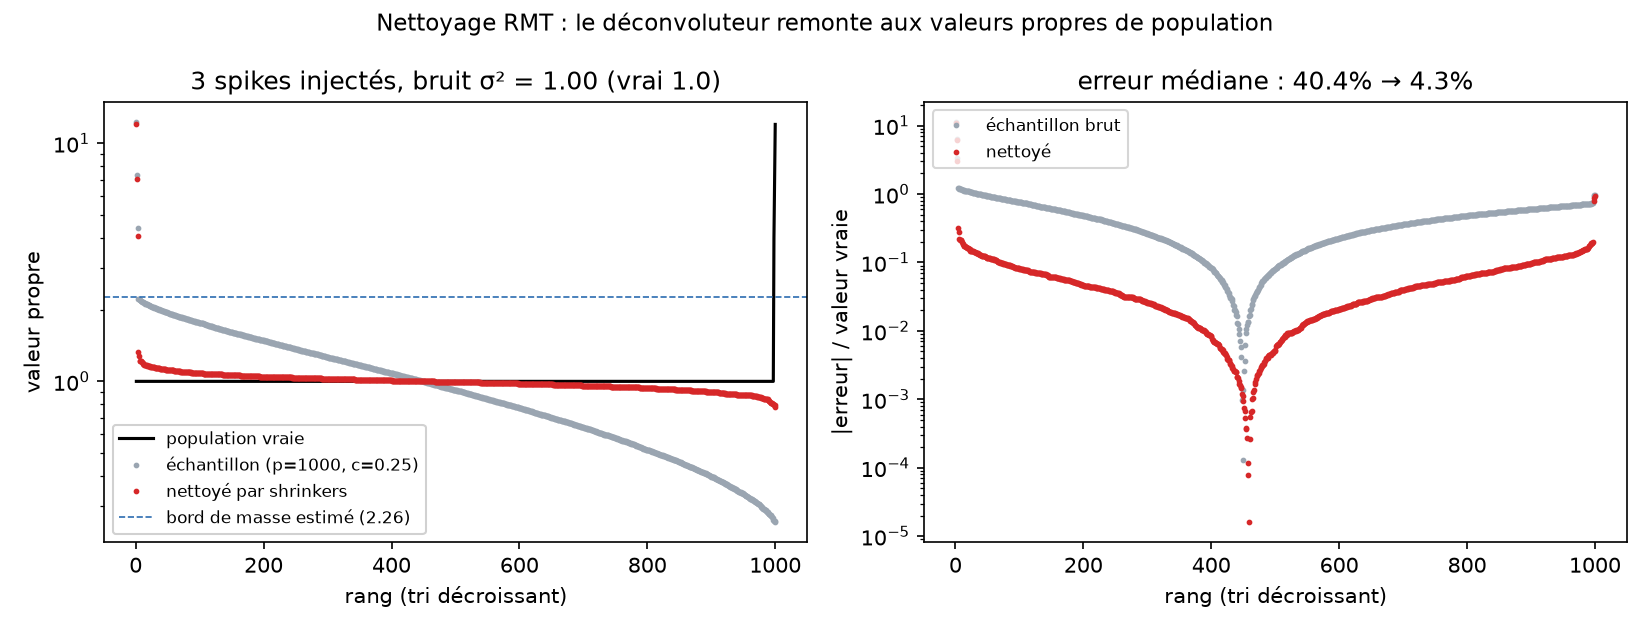
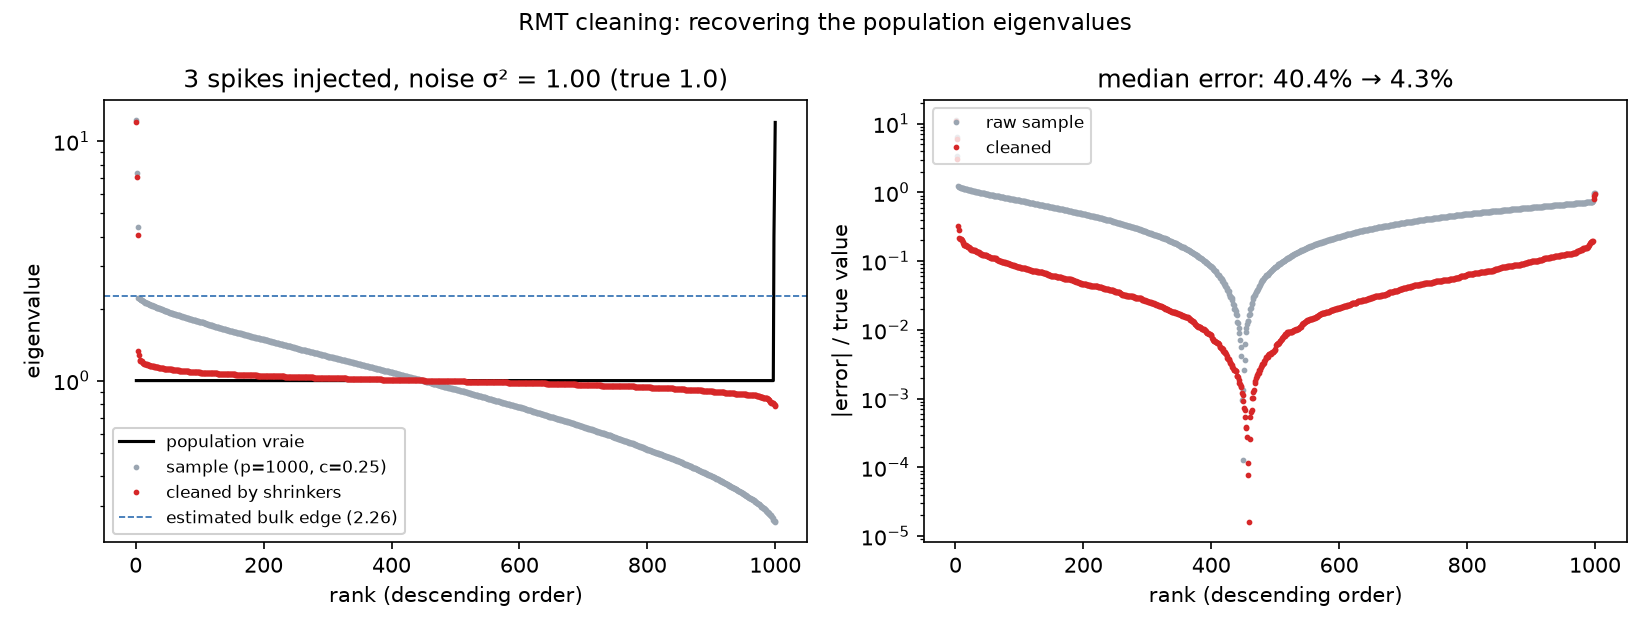
docs(readme): English figure labels, full 10^0-10^5 p-range, treecode in headline numbers
Review fixes on the front-page figures:

- every label, legend, title and annotation inside both figures is now
  English (they had shipped in French);
- the runtime sweep covers the WHOLE decade range for real — sizes
  measured from p=1 to p=50000 log-spaced (17 points, 9 timing reps at
  microsecond scales), axis pinned to [1, 1e5] — instead of stretching
  an axis beyond the data;
- the headline table gains a treecode column next to the exact one,
  with its own NumPy gain factor: people want to see what a small
  accuracy sacrifice buys. Fresh measurements: p=1024 -> exact
  0.23 ms (12x) / chebcode_fast 0.15 ms (19x); p=4096 -> 1.3 ms (67x) /
  0.42 ms (201x); p=50000 -> 0.16 s (96x) / 5.1 ms (~3000x). Footnotes
  state the accuracy of each column and that microsecond-scale
  flattening is fixed Python-call overhead, deferring the pure-kernel
  crossover to its dedicated section.

README cells resynced to the regenerated docs/img/readme_figures.json.

diff --git a/scripts/make_readme_figures.py b/scripts/make_readme_figures.py
@@ -67,34 +67,34 @@ def fig_cleaning() -> dict:
     idx = np.arange(1, p + 1)
     ax.plot(idx, truth_desc, "-", color="black", lw=1.5, label="population vraie")
     ax.plot(idx, sample_desc, ".", color="#9aa5b1", ms=3.5,
-            label=f"échantillon (p={p}, c={C})")
+            label=f"sample (p={p}, c={C})")
     ax.plot(idx, cleaned_desc, ".", color="#d62728", ms=3.5,
-            label="nettoyé par shrinkers")
+            label="cleaned by shrinkers")
     ax.set_yscale("log")
     ax.axhline(res["bulk_edge"], color="#2b6cb0", lw=0.8, ls="--",
-               label=f"bord de masse estimé ({res['bulk_edge']:.2f})")
-    ax.set_xlabel("rang (tri décroissant)")
-    ax.set_ylabel("valeur propre")
-    ax.set_title(f"{len(spikes)} spikes injectés, bruit σ² = "
-                 f"{res['sigma2']:.2f} (vrai 1.0)")
+               label=f"estimated bulk edge ({res['bulk_edge']:.2f})")
+    ax.set_xlabel("rank (descending order)")
+    ax.set_ylabel("eigenvalue")
+    ax.set_title(f"{len(spikes)} spikes injected, noise σ² = "
+                 f"{res['sigma2']:.2f} (true 1.0)")
     ax.legend(loc="lower left", fontsize=8, framealpha=0.9)
 
     ax = axes[1]
     eps = 1e-12
     err_sample = np.abs(sample_desc - truth_desc) / np.maximum(truth_desc, eps)
     err_clean = np.abs(cleaned_desc - truth_desc) / np.maximum(truth_desc, eps)
-    ax.plot(idx, err_sample, ".", color="#9aa5b1", ms=3.5, label="échantillon brut")
-    ax.plot(idx, err_clean, ".", color="#d62728", ms=3.5, label="nettoyé")
+    ax.plot(idx, err_sample, ".", color="#9aa5b1", ms=3.5, label="raw sample")
+    ax.plot(idx, err_clean, ".", color="#d62728", ms=3.5, label="cleaned")
     ax.set_yscale("log")
-    ax.set_xlabel("rang (tri décroissant)")
-    ax.set_ylabel("|erreur| / valeur vraie")
+    ax.set_xlabel("rank (descending order)")
+    ax.set_ylabel("|error| / true value")
     med_s = float(np.median(err_sample))
     med_c = float(np.median(err_clean))
-    ax.set_title(f"erreur médiane : {med_s:.1%} → {med_c:.1%}")
+    ax.set_title(f"median error: {med_s:.1%} → {med_c:.1%}")
     ax.legend(loc="upper left", fontsize=8)
 
     fig.suptitle(
-        "Nettoyage RMT : le déconvoluteur remonte aux valeurs propres de population",
+        "RMT cleaning: recovering the population eigenvalues",
         fontsize=11,
     )
     fig.tight_layout()
@@ -163,7 +163,9 @@ def bench(fn, *args, repeats: int = 3):
 
 
 def fig_runtime() -> dict:
-    sizes = [256, 512, 1024, 2048, 4096, 8192, 16384, 32768, 50000]
+    # Full 10^0..10^5 range, log-spaced; 50000 caps the sweep.
+    sizes = [1, 2, 4, 8, 16, 32, 64, 128, 256, 512, 1024, 2048, 4096,
+             8192, 16384, 32768, 50000]
     rows = []
     for p in sizes:
         rng = np.random.default_rng(p)
@@ -174,23 +176,26 @@ def fig_runtime() -> dict:
         if p <= 4096:  # pure Python is O(p^2) interpreted — stop while sane
             row["python_naive"] = bench(stieltjes_python_naive, lam, eta,
                                         repeats=1 if p > 2048 else 3)
-        row["numpy"] = bench(stieltjes_numpy_chunked, lam, eta)
+        reps = 9 if p <= 256 else 3
+        row["numpy"] = bench(stieltjes_numpy_chunked, lam, eta, repeats=reps)
         row["shrinkers_exact_rayon"] = bench(
             lambda l=lam, e=eta: rk.stieltjes_transform(
-                l, eta=e, method="blocked_tiled", parallelism="rayon"))
+                l, eta=e, method="blocked_tiled", parallelism="rayon"),
+            repeats=reps)
         row["shrinkers_chebcode_rayon"] = bench(
             lambda l=lam, e=eta: rk.stieltjes_transform(
-                l, eta=e, method="chebcode_fast", parallelism="rayon"))
+                l, eta=e, method="chebcode_fast", parallelism="rayon"),
+            repeats=reps)
         rows.append(row)
         print(row)
 
     fig, ax = plt.subplots(figsize=(7.5, 4.6))
 
     series = [
-        ("python_naive", "#9aa5b1", "o", "Python naïf (double boucle)"),
-        ("numpy", "#2b6cb0", "s", "NumPy vectorisé (broadcasting, sans FFT/scipy)"),
-        ("shrinkers_exact_rayon", "#d62728", "^", "shrinkers — exact, tous cœurs"),
-        ("shrinkers_chebcode_rayon", "#e05252", "v", "shrinkers — treecode, tous cœurs"),
+        ("python_naive", "#9aa5b1", "o", "Naive Python (double loop)"),
+        ("numpy", "#2b6cb0", "s", "Vectorized NumPy (broadcasting; no scipy/FFT)"),
+        ("shrinkers_exact_rayon", "#d62728", "^", "shrinkers — exact, all cores"),
+        ("shrinkers_chebcode_rayon", "#e05252", "v", "shrinkers — treecode, all cores"),
     ]
     for key, color, marker, label in series:
         pts = [(r["p"], r[key]) for r in rows if key in r]
@@ -201,9 +206,10 @@ def fig_runtime() -> dict:
 
     ax.set_xscale("log")
     ax.set_yscale("log")
+    ax.set_xlim(1, 1e5)
     ax.set_xlabel("p (nombre de valeurs propres)")
     ax.set_ylabel("temps de calcul (s)")
-    ax.set_title("Transformée de Stieltjes complète — même arithmétique,\nmoteurs différents",
+    ax.set_title("Full Stieltjes transform — same arithmetic,\ndifferent engines",
                  fontsize=11)
     ax.grid(True, which="both", alpha=0.25)
     ax.legend(fontsize=8, loc="upper left")
@@ -214,7 +220,7 @@ def fig_runtime() -> dict:
         speedup_np = last_full["numpy"] / last_full["shrinkers_exact_rayon"]
         speedup_py = last_full["python_naive"] / last_full["shrinkers_exact_rayon"]
         ax.annotate(
-            f"à p={last_full['p']} :\n{speedup_py:.0f}× vs Python naïf\n{speedup_np:.1f}× vs NumPy",
+            f"at p={last_full['p']}:\n{speedup_py:.0f}× vs naive Python\n{speedup_np:.1f}× vs NumPy",
             xy=(last_full["p"], last_full["shrinkers_exact_rayon"]),
             xytext=(-120, 30), textcoords="offset points",
             fontsize=8.5, color="#333333",

diff --git a/README.md b/README.md
@@ -35,20 +35,24 @@ scipy**):
 
 ![Performance](docs/img/performance.png)
 
-*Full transform of all p points, η = 1/√p, Apple M1 Max, NumPy 2.5.1.*
+*Full transform of all p points, log-log over the whole 10⁰–10⁵ range,
+η = 1/√p, Apple M1 Max, NumPy 2.5.1.*
 
-| p | Python naïf | NumPy | shrinkers (exact) | gain vs NumPy |
+| p | Naive Python | NumPy | shrinkers exact ¹ | shrinkers treecode ² |
 |---|---|---|---|---|
-| 1 024 | 0.42 s | 2.9 ms | **0.28 ms** | ~10× |
-| 4 096 | 6.7 s | 104 ms | **1.5 ms** | ~70× |
-| 50 000 | *(~2 h extrapolées)* | 14.9 s | **0.15 s** | ~98× |
+| 1 024 | 0.42 s | 2.8 ms | **0.23 ms** · 12× | **0.15 ms** · 19× |
+| 4 096 | 6.7 s | 85 ms | **1.3 ms** · 67× | **0.42 ms** · 201× |
+| 50 000 | *(~2 h extrapolated)* | 15.6 s | **0.16 s** · 96× | **5.1 ms** · ≈3000× |
 
-At p = 50 000 the approximate treecode path (`chebcode_fast`) answers in
-**3.6 ms** — about 4000× faster than NumPy at ~1e-8 relative accuracy — and
-the higher-precision `chebcode` preset (~5e-10) costs about the same (frontier
-table below). Every number
-is reproducible: `scripts/make_readme_figures.py` regenerates both figures and
-`docs/img/readme_figures.json` holds the raw measurements.
+¹ machine precision — the zero-error anchor.  ² `chebcode_fast` preset,
+rel. error ~1e-8: giving up four digits of accuracy buys two more orders of
+magnitude in speed, and the higher-precision `chebcode` preset (~5e-10)
+costs nearly the same (frontier table below). At microsecond scales both
+shrinkers curves flatten onto their fixed Python-call overhead — the
+pure-kernel crossover between exact and treecode is analysed separately
+below. Every number is reproducible: `scripts/make_readme_figures.py`
+regenerates both figures end-to-end, and `docs/img/readme_figures.json`
+holds the raw measurements.
 
 ### What's inside
 
